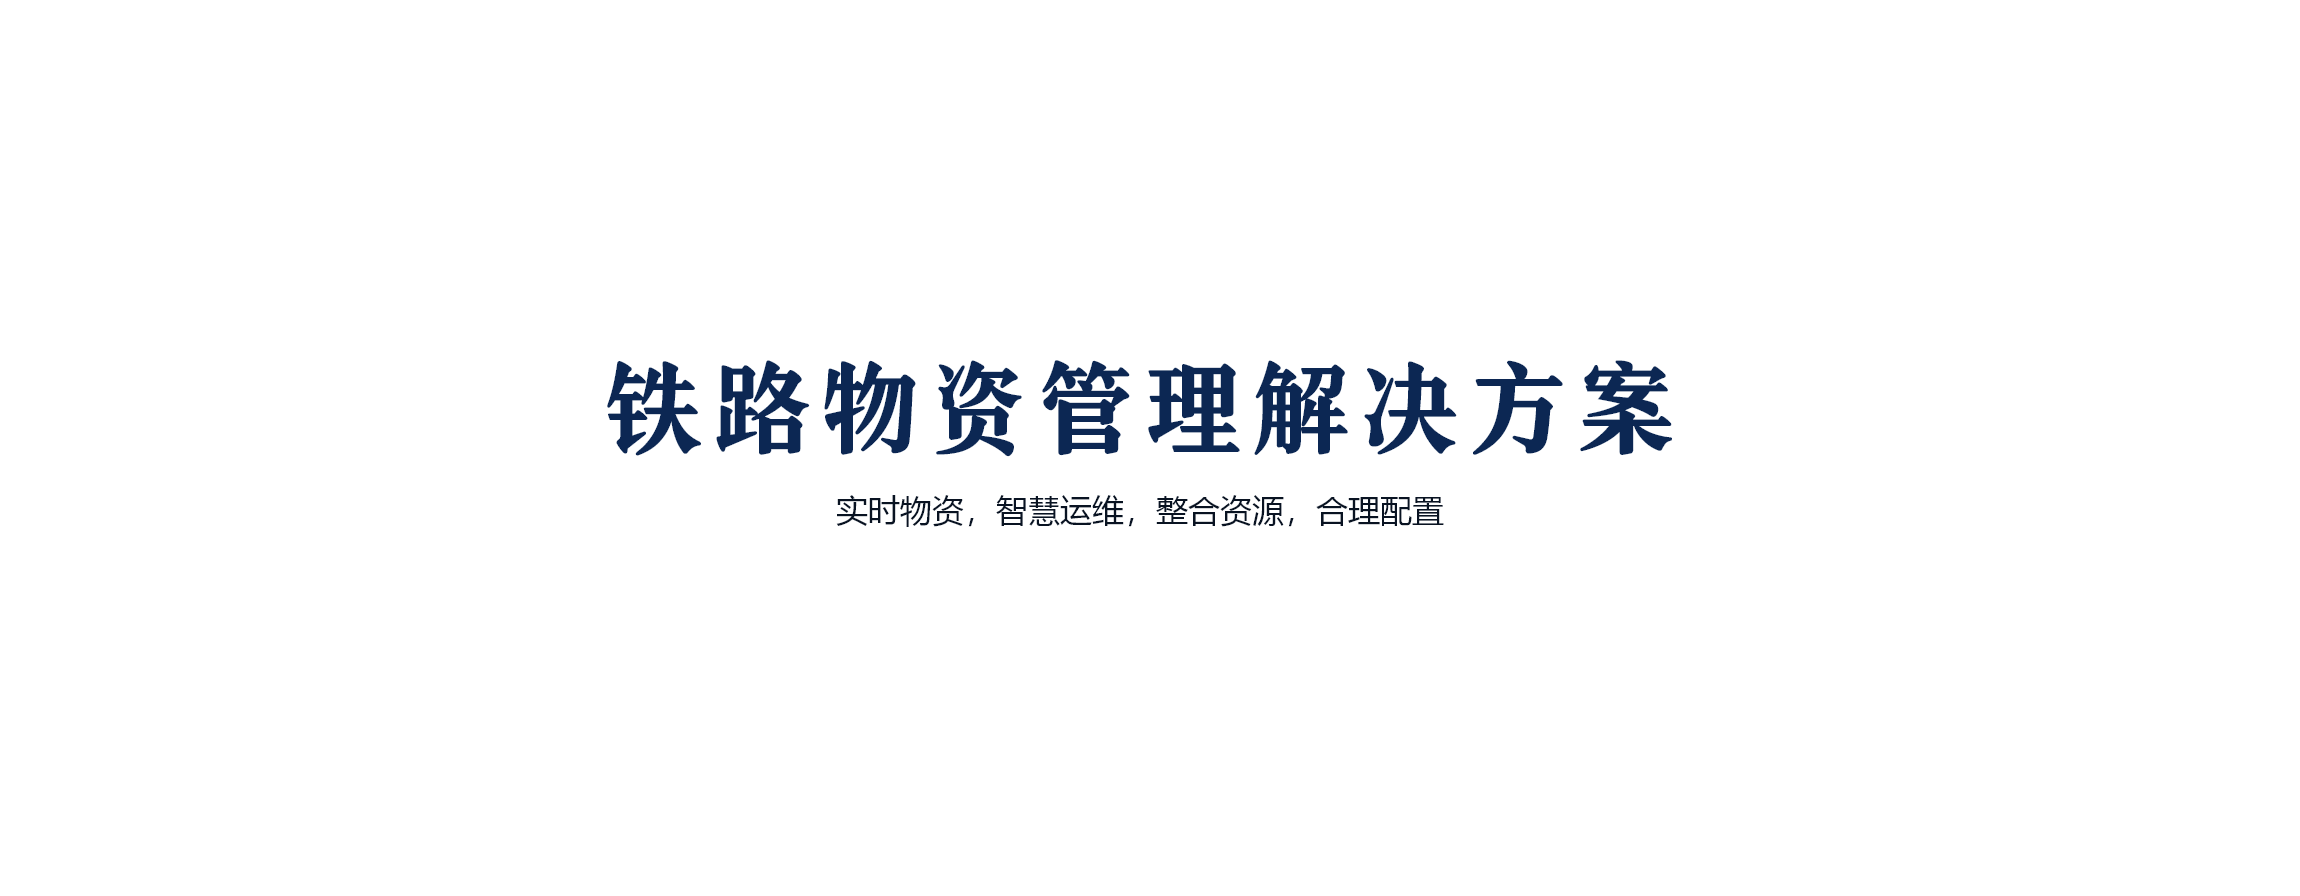
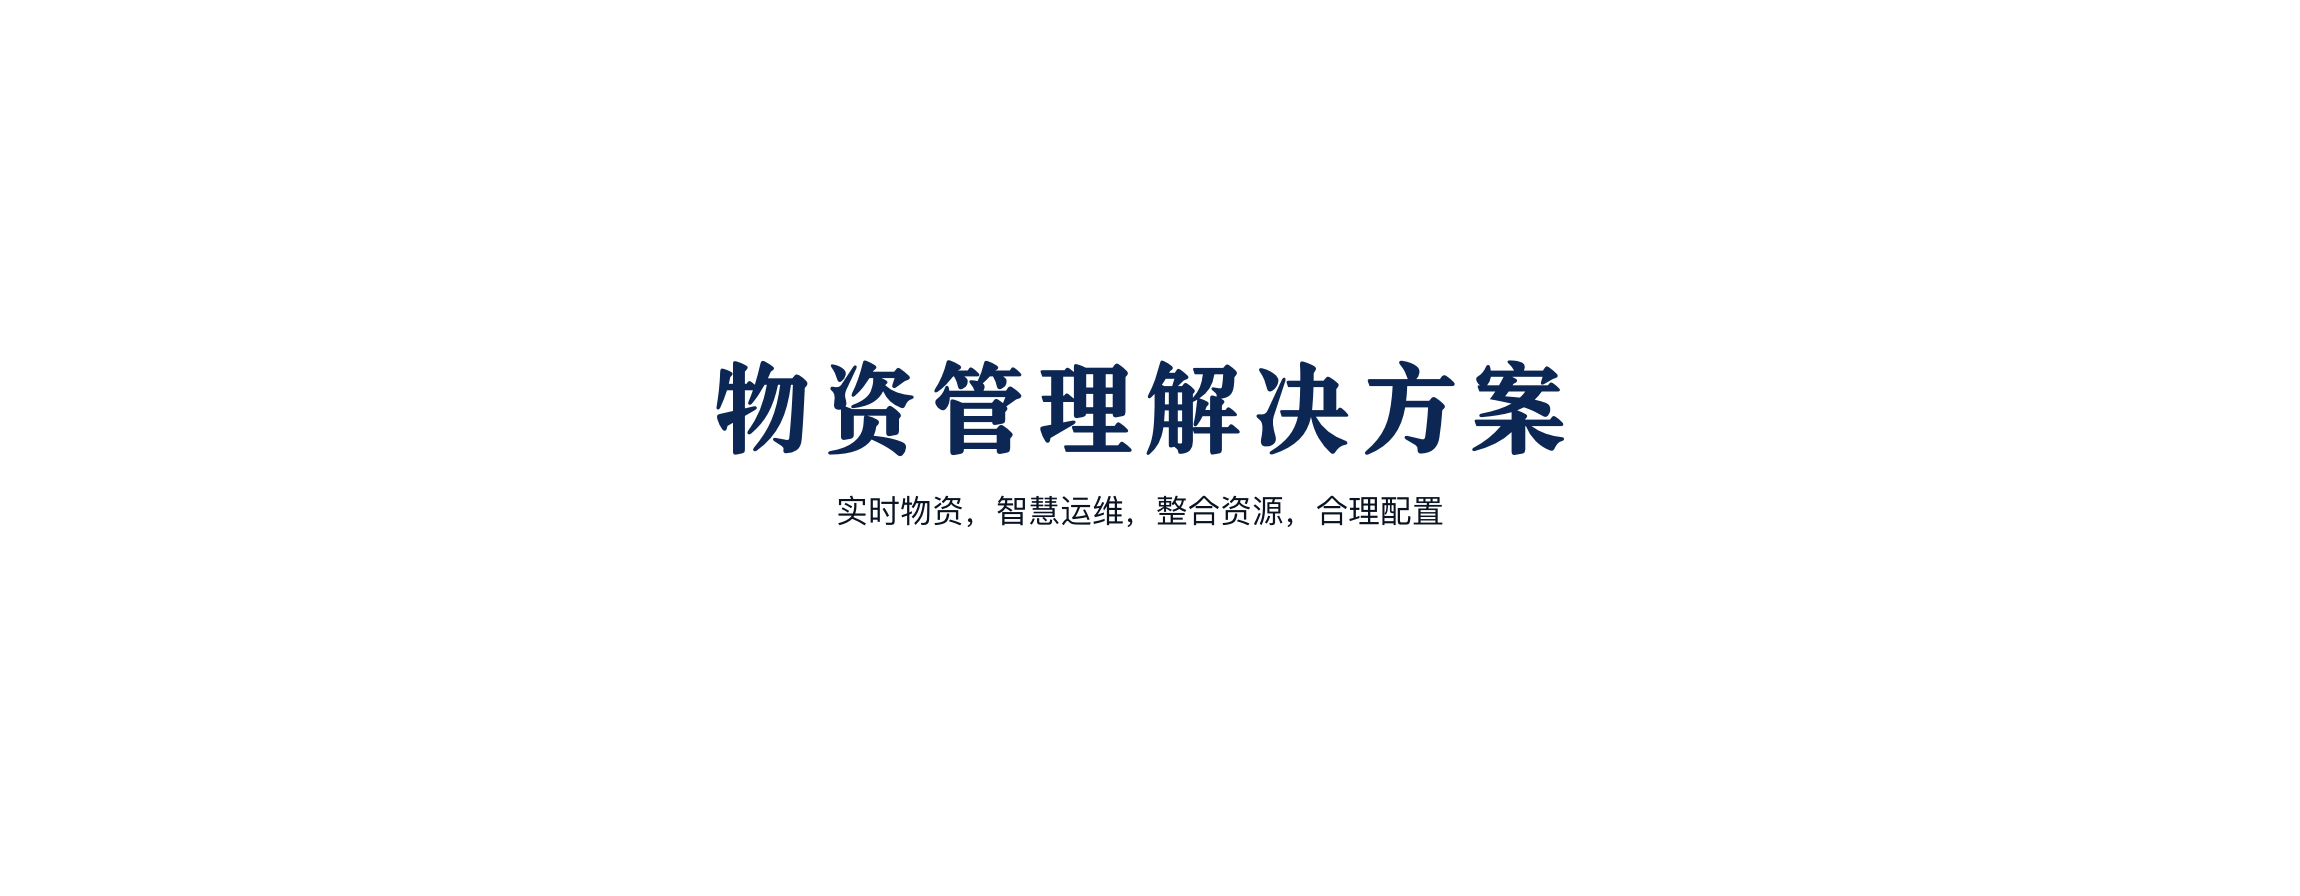
门户页背景图片替换

Changed region(s): [[0.247, 0.4062, 0.7409, 0.5312], [0.3704, 0.5312, 0.6483, 0.5938]]

diff --git a/src/views/portal.vue b/src/views/portal.vue
@@ -445,7 +445,7 @@ export default {
       line-height: 999px;
       color: #0F2241;
       overflow: hidden;
-      background: url(../assets/login/Title.png) no-repeat center top;
+      background: url(../assets/login/Title1.png) no-repeat center top;
       background-size: contain;
     }
     .banner-login-btn{
